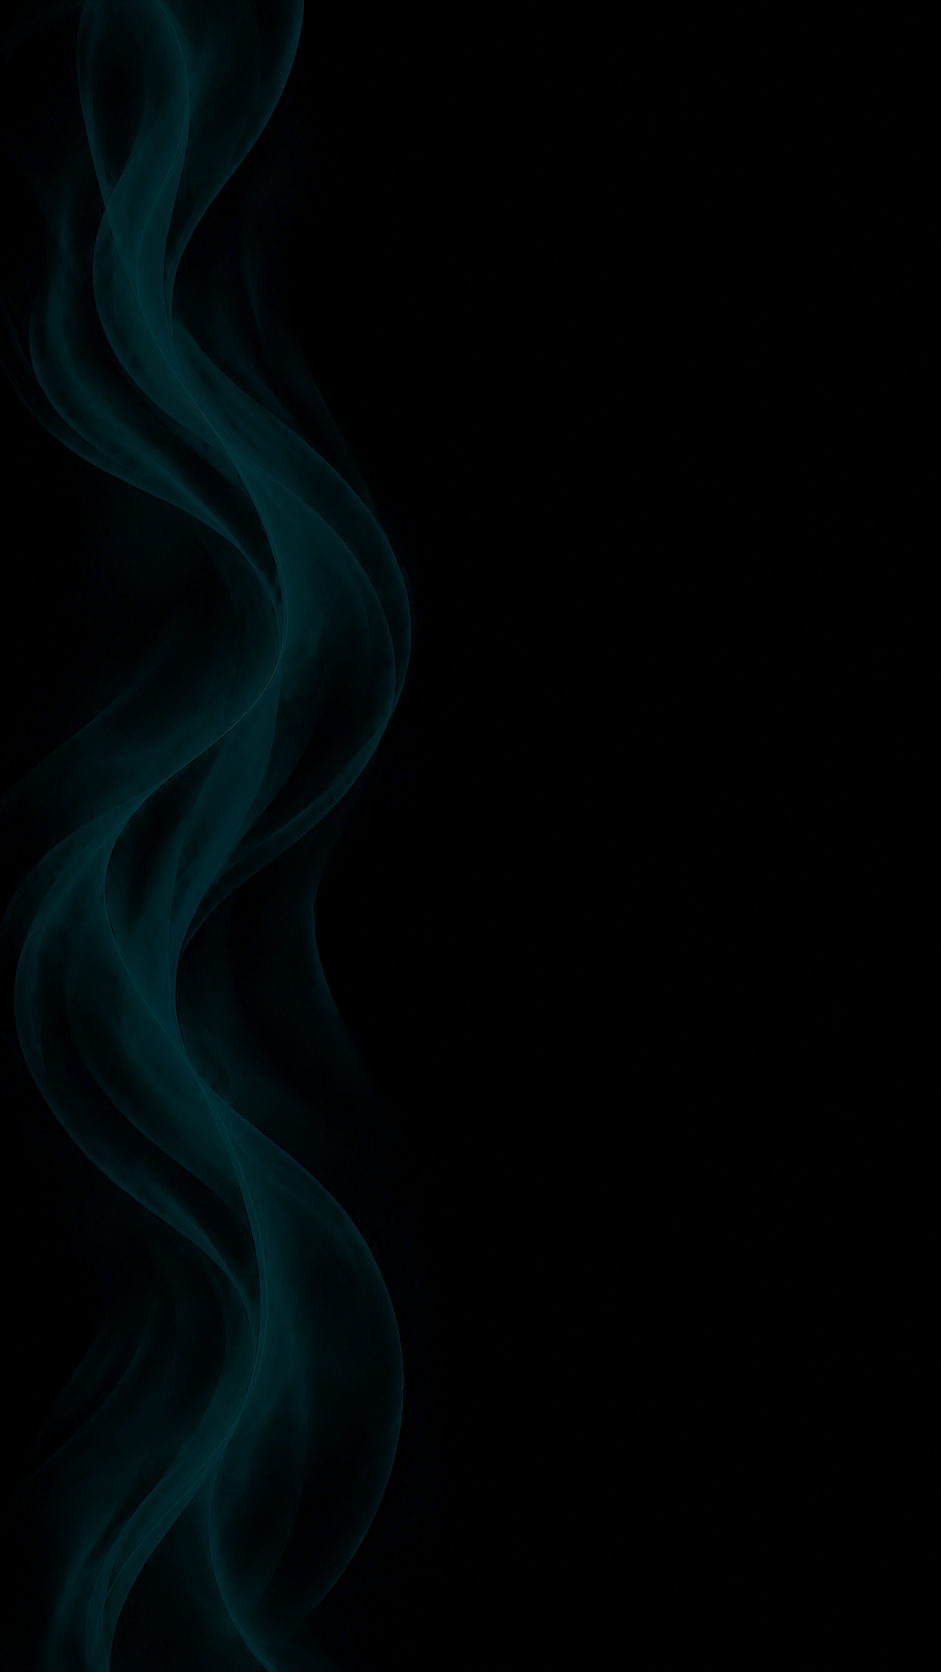
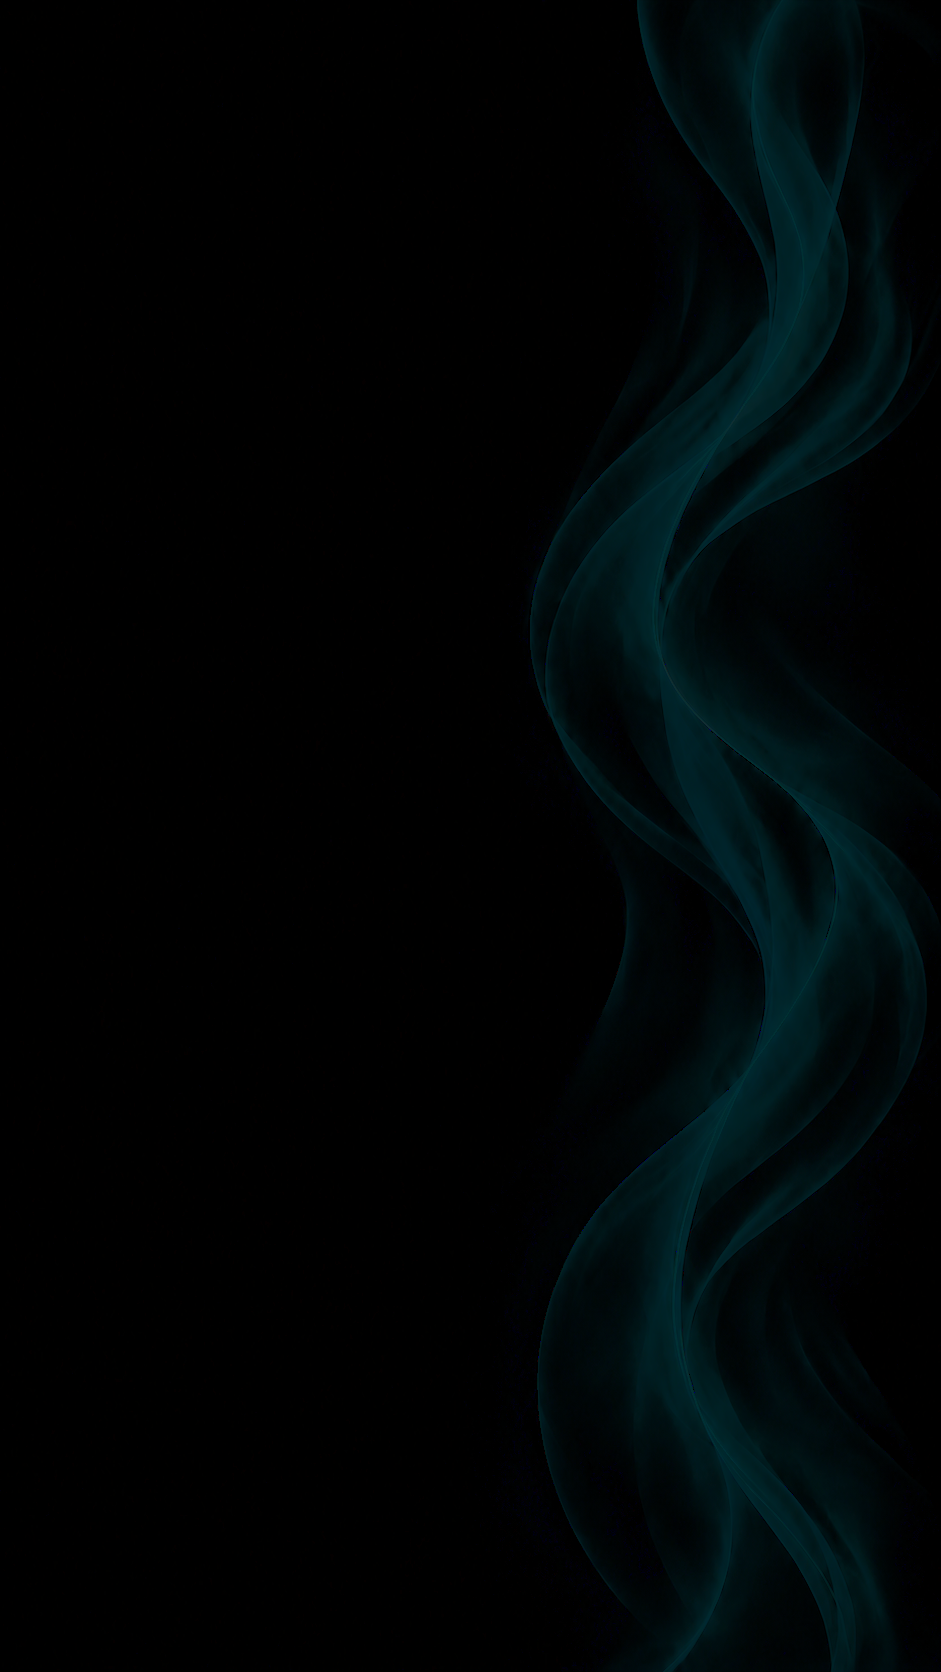
feat(38.5-07): mirror the Aurora art per owner ruling
- galaxy-aurora-dark/light.webp flipped left-right on the decoded pixels (no
  regeneration); lossless WebP method 6, 941x1672 RGB, single VP8L chunk
- each new file decodes to exactly np.fliplr of the previous file
- H1/H2 (--margin 0.1) PASS on both, 0 failing px; extrema --check passes
- ART-SIGNOFF byte table + section 4 addendum (ruling verbatim), README
  provenance, dossier [DECIDED 2026-09-29] D-35, CONTEXT D-35

diff --git a/.planning/phases/38.5-background-art-text-contrast/38.5-ART-SIGNOFF.md b/.planning/phases/38.5-background-art-text-contrast/38.5-ART-SIGNOFF.md
@@ -96,7 +96,8 @@ rule bumps only on a wire-shape change (`src/backup/types.ts`). No backup-area p
 
 Each master was opened and asserted 941×1672, mode RGB, no alpha; rebuilt from its pixel array (metadata and text chunks
 dropped); saved as a lossless WebP (`lossless=True, method=6`); then both files were re-opened and the decoded pixel
-arrays compared. **All 12 are pixel-identical to their approved masters.**
+arrays compared. **All 12 are pixel-identical to their approved masters.** (The two `galaxy-aurora` files were later
+mirrored left↔right by owner ruling; they are now pixel-identical to `np.fliplr` of their masters. See §4.)
 
 Checker: `uv run --no-project --with numpy --with pillow python3 scripts/check-background-art.py <webp> --package <pkg>
 --mode <mode> --slot <slot> --accepted-exclusions .planning/phases/38.5-background-art-text-contrast/38.5-ART-SIGNOFF.md
@@ -108,8 +109,8 @@ allowance). Nothing else is relaxed. Presentation veil, whole canvas.
 |---|---|---|---|---|---|---|---|---|---|---|
 | galaxy-quiet | dark | DeepSpace-D1 (`galaxy-quiet-dark-base-strict-r1`) | base | strict | PASS | PASS | 0.000% / 0.000% | 0 / 0 px | 0.0 / 0.6 / 14.4 | 1,107,828 |
 | galaxy-quiet | light | DeepSpace-L1 (`galaxy-quiet-light-route1-strict-r2`) | route 1 | strict | PASS | PASS | 0.000% / 0.000% | 0 / 0 px | 89.5 / 96.0 / 97.0 | 831,608 |
-| galaxy-aurora | dark | Aurora-D7 (`galaxy-aurora-dark-base-strict-r4e`) | base | strict | PASS | PASS | 0.000% / 0.000% | 0 / 0 px | 0.0 / 0.0 / 17.3 | 515,304 |
-| galaxy-aurora | light | Aurora-L1 (`galaxy-aurora-light-route1-strict-r2`) | route 1 | strict | PASS | PASS | 0.000% / 0.000% | 0 / 0 px | 89.3 / 96.8 / 97.1 | 625,956 |
+| galaxy-aurora | dark | Aurora-D7 (`galaxy-aurora-dark-base-strict-r4e`) | base | strict | PASS | PASS | 0.000% / 0.000% | 0 / 0 px | 0.0 / 0.0 / 17.3 | 516,028 (mirrored §4; was 515,304) |
+| galaxy-aurora | light | Aurora-L1 (`galaxy-aurora-light-route1-strict-r2`) | route 1 | strict | PASS | PASS | 0.000% / 0.000% | 0 / 0 px | 89.3 / 96.8 / 97.1 | 625,150 (mirrored §4; was 625,956) |
 | galaxy-starfield | dark | Starfield-D3 (`galaxy-starfield-dark-base-visible-r3`) | base | visible | PASS (allowance) | PASS (allowance) | 0.170% / 0.170% | 9 / 9 px | 0.0 / 0.6 / 80.2 | 1,502,978 |
 | galaxy-starfield | light | Starfield-L5 (`galaxy-starfield-light-route2-visible-r4d`) | route 2 | visible | PASS (allowance) | PASS (allowance) | 0.028% / 0.028% | 13 / 13 px | 17.8 / 93.0 / 100.0 | 1,351,862 |
 | standard-dawn | dark | Dawn-D1 (`standard-dawn-dark-route1-strict-r2`) | route 1 | strict | PASS | PASS | 0.000% / 0.000% | 0 / 0 px | 6.9 / 11.3 / 18.4 | 1,202,964 |
@@ -135,11 +136,41 @@ Starfield variants:
 | Set | Files | Total bytes |
 |---|---|---|
 | Before: today's shipped WebPs (`galaxy-aurora`, `galaxy-deep-space`, `galaxy-nebula`, `galaxy-starfield`, `standard-dawn`, `standard-dusk`, `standard-mesh`, `standard-paper`) | 8 | 7,354,082 (7.35 MB) |
-| After: the 12 new `*-light.webp` / `*-dark.webp` | 12 | 11,976,442 (11.98 MB) |
-| Change once 38.5-05 retires the 8 old files | +4 files | +4,622,360 (+62.9%) |
+| After: the 12 new `*-light.webp` / `*-dark.webp` (Aurora mirrored, §4) | 12 | 11,976,360 (11.98 MB) |
+| Change once 38.5-05 retires the 8 old files | +4 files | +4,622,278 (+62.9%) |
 
 Until 38.5-05 removes the 8 old files, the repo carries both sets (19,330,524 bytes); only the wired files enter the
 bundle, since Metro bundles only `require()`d assets.
+
+## 4. Addendum (2026-09-29) — Aurora mirrored left↔right
+
+**Owner ruling, verbatim (2026-09-29, during the 38.5-07 re-sign-off):** "I need the image mirrored. I was feeling weird
+about the ribbon in the image being only on one side but couldn't put my finger on why and now it's obvious: most of the
+app's visual content is on the left of the screen, same side as the ribbon, while the right side is relatively
+content-free. Meaning the ribbon sits behind the contact names and pictures on the list view of contacts and the digest
+pages. If we mirror the image so the ribbon is exactly the same but on the right side and inverted, I think that would
+look "stellar" so to speak :P ... I'm not saying to regenerate the image, literally just mechanically flip the image. Both
+light and dark would need this treatment."
+
+What was done (no regeneration, nothing else altered):
+
+- `assets/backgrounds/galaxy-aurora-dark.webp` (Aurora-D7) and `assets/backgrounds/galaxy-aurora-light.webp` (Aurora-L1)
+  were decoded, flipped horizontally on the pixel array (`np.fliplr`), and re-saved exactly as in §2: 941×1672, RGB, no
+  alpha, lossless WebP (`lossless=True, method=6`), a single `VP8L` chunk (no metadata or text chunks).
+- Each new file's decoded pixels were verified **equal to `np.fliplr` of the previous file's decoded pixels, exactly**
+  (and therefore to `np.fliplr` of the approved master).
+- A mirror leaves the pixel set unchanged, so every measurement is unchanged: H1 and H2 (`--margin 0.1`) PASS on both files
+  (dark with `--exclude-galaxy-dark-danger`), union failing 0 px, and `measure-background-extrema.py --check` passes
+  with the declared extrema untouched.
+
+| File | Bytes before | Bytes after | SHA-256 after |
+|---|---|---|---|
[2 lines of base64/hex data omitted]
+
+The 12-file total moves from 11,976,442 to 11,976,360 bytes (§3 updated). The "both sets" figure in §3 (19,330,524
+bytes) describes the repo before 38.5-05 retired the old files and is left as recorded. Mirrored as the dossier "Art
+Sign-off" entry `[DECIDED · 2026-09-29]` D-35 and as D-35 in `38.5-CONTEXT.md`.
 
 ## Accepted exclusions (machine-readable)
 

diff --git a/assets/backgrounds/README.md b/assets/backgrounds/README.md
@@ -57,12 +57,17 @@ All twelve files are the owner-picked candidates from the 38.5 art loop, saved f
 their approved PNG masters as lossless WebPs (`lossless=True, method=6`), decoded and
 verified pixel-identical to the master, with metadata and text chunks dropped.
 
+**Exception — the two `galaxy-aurora` files are mirrored (owner ruling 2026-09-29, 38.5 D-35).** They were
+flipped left↔right on the decoded pixels (no regeneration), so the ribbon sits on the right, away from the
+left-aligned list and Digest content, and re-saved the same way; each is pixel-identical to `np.fliplr` of its
+master. A mirror leaves the pixel set unchanged, so the declared extrema and every checker result stand.
+
 | Slot id | Package | Mode | File | Dimensions | Measured brightest pixel | Measured darkest pixel | Feature allowance | Source | License | Author |
 |---------|---------|------|------|------------|--------------------------|------------------------|-------------------|--------|---------|--------|
 | `galaxy-quiet` | galaxy | light | `galaxy-quiet-light.webp` | `941x1672` | `#F8F6FF` | `#E4DDF9` | none | Codex `gpt-6-astra` via `codex-edu`; 38.5 art sign-off 2026-09-28, DeepSpace-L1 (`galaxy-quiet-light-route1-strict-r2`); Pillow lossless WebP | OpenAI Terms of Use | OpenAI image generation (Codex); orbit-app |
 | `galaxy-quiet` | galaxy | dark | `galaxy-quiet-dark.webp` | `941x1672` | `#262149` | `#000000` | none | Codex `gpt-6-astra` via `codex-edu`; 38.5 art sign-off 2026-09-28, DeepSpace-D1 (`galaxy-quiet-dark-base-strict-r1`); Pillow lossless WebP | OpenAI Terms of Use | OpenAI image generation (Codex); orbit-app |
-| `galaxy-aurora` | galaxy | light | `galaxy-aurora-light.webp` | `941x1672` | `#F6F8F9` | `#CEE5E4` | none | Codex `gpt-6-astra` via `codex-edu`; 38.5 art sign-off 2026-09-28, Aurora-L1 (`galaxy-aurora-light-route1-strict-r2`); Pillow lossless WebP | OpenAI Terms of Use | OpenAI image generation (Codex); orbit-app |
-| `galaxy-aurora` | galaxy | dark | `galaxy-aurora-dark.webp` | `941x1672` | `#123035` | `#000000` | none | Codex `gpt-6-astra` via `codex-edu`; 38.5 art sign-off 2026-09-28, Aurora-D7 (`galaxy-aurora-dark-base-strict-r4e`); Pillow lossless WebP | OpenAI Terms of Use | OpenAI image generation (Codex); orbit-app |
+| `galaxy-aurora` | galaxy | light | `galaxy-aurora-light.webp` | `941x1672` | `#F6F8F9` | `#CEE5E4` | none | Codex `gpt-6-astra` via `codex-edu`; 38.5 art sign-off 2026-09-28, Aurora-L1 (`galaxy-aurora-light-route1-strict-r2`), mirrored left↔right 2026-09-29 (D-35); Pillow lossless WebP | OpenAI Terms of Use | OpenAI image generation (Codex); orbit-app |
+| `galaxy-aurora` | galaxy | dark | `galaxy-aurora-dark.webp` | `941x1672` | `#123035` | `#000000` | none | Codex `gpt-6-astra` via `codex-edu`; 38.5 art sign-off 2026-09-28, Aurora-D7 (`galaxy-aurora-dark-base-strict-r4e`), mirrored left↔right 2026-09-29 (D-35); Pillow lossless WebP | OpenAI Terms of Use | OpenAI image generation (Codex); orbit-app |
 | `galaxy-starfield` | galaxy | light | `galaxy-starfield-light.webp` | `941x1672` | `#FFFFFF` | `#D3DDE0` (text-bearing) | 18 px / 0.5% (signed 2026-09-28) | Codex `gpt-6-astra` via `codex-edu`; 38.5 art sign-off 2026-09-28, Starfield-L5 (`galaxy-starfield-light-route2-visible-r4d`); Pillow lossless WebP | OpenAI Terms of Use | OpenAI image generation (Codex); orbit-app |
 | `galaxy-starfield` | galaxy | dark | `galaxy-starfield-dark.webp` | `941x1672` | `#262452` (text-bearing) | `#000000` | 18 px / 0.5% (signed 2026-09-28) | Codex `gpt-6-astra` via `codex-edu`; 38.5 art sign-off 2026-09-28, Starfield-D3 (`galaxy-starfield-dark-base-visible-r3`); Pillow lossless WebP | OpenAI Terms of Use | OpenAI image generation (Codex); orbit-app |
 | `standard-dawn` | standard | light | `standard-dawn-light.webp` | `941x1672` | `#FFF6E8` | `#F8D8C0` | none | Codex `gpt-6-astra` via `codex-edu`; 38.5 art sign-off 2026-09-28, Dawn-L1 (`standard-dawn-light-base-strict-r0`); Pillow lossless WebP | OpenAI Terms of Use | OpenAI image generation (Codex); orbit-app |

diff --git a/docs/dossier/milestone-2/phase-38.5-background-art-text-contrast-dossier.md b/docs/dossier/milestone-2/phase-38.5-background-art-text-contrast-dossier.md
@@ -415,6 +415,18 @@ per-cell checker results on the shipped files, the P-7 sizes and the machine-rea
     Starfield keep their names in both modes.
 -   **[DECIDED · 2026-09-28] D-34 --- No backup-format bump.** The owner agreed with the recommendation: the slot id stays
     in the same keys and nothing on the wire changes.
+-   **[DECIDED · 2026-09-29] D-35 --- The Aurora art is mirrored left↔right, both modes (amends D-30).** Owner, verbatim:
+    "I need the image mirrored. I was feeling weird about the ribbon in the image being only on one side but couldn't
+    put my finger on why and now it's obvious: most of the app's visual content is on the left of the screen, same side
+    as the ribbon, while the right side is relatively content-free. Meaning the ribbon sits behind the contact names and
+    pictures on the list view of contacts and the digest pages. If we mirror the image so the ribbon is exactly the same
+    but on the right side and inverted, I think that would look "stellar" so to speak :P ... I'm not saying to
+    regenerate the image, literally just mechanically flip the image. Both light and dark would need this treatment."
+    -   `galaxy-aurora-dark.webp` (Aurora-D7) and `galaxy-aurora-light.webp` (Aurora-L1) are flipped horizontally on the
+        decoded pixels, not regenerated, and re-saved as lossless WebPs the same way as D-30. Each is pixel-identical to
+        `np.fliplr` of the previous file.
+    -   [DERIVED] A mirror leaves the pixel set unchanged: H1 and H2 still PASS with no failing pixel, and the declared
+        extrema still enclose every regime (`measure-background-extrema.py --check`). Record: `38.5-ART-SIGNOFF.md` §4.
 
 ## Primary Input: the 38.4 Background-Art Brief
 
@@ -671,3 +683,6 @@ O-5 is resolved by D-08, and O-9 is new. O-3, O-6 and O-8 are unchanged (O-8 has
     (Galaxy Dark Aurora is a new image), D-31 the Starfield allowance (18 px / 0.5%) and no exclusions, D-32 the planet
     limb shelved, D-33 the "Deep Space" label for `galaxy-quiet`, D-34 no backup-format bump. O-2 is resolved. The record
     is `38.5-ART-SIGNOFF.md`.
+-   2026-09-29 --- D-35 recorded in the "Art Sign-off" section: the owner had both Aurora images mirrored left↔right
+    (mechanical flip, no regeneration) so the ribbon sits away from the left-aligned content. Record:
+    `38.5-ART-SIGNOFF.md` §4.

diff --git a/.planning/phases/38.5-background-art-text-contrast/38.5-CONTEXT.md b/.planning/phases/38.5-background-art-text-contrast/38.5-CONTEXT.md
@@ -254,6 +254,15 @@ Full record, owner words verbatim, checker results on the shipped files and the 
 - **D-33 (owner):** the quiet Galaxy slot's **label is "Deep Space"**; its id stays `galaxy-quiet` (the old
   `galaxy-deep-space` id is still retired by 38.5-05). Aurora and Starfield keep their names in both modes.
 - **D-34 (owner):** **no backup-format bump** (agrees with the recommendation).
+- **D-35 (owner, 2026-09-29; amends D-30):** **both Aurora images are mirrored left↔right** — a mechanical flip of the
+  decoded pixels, not a regeneration — so the ribbon sits on the right, away from the left-aligned contact names,
+  pictures and Digest content. Owner: "I need the image mirrored. I was feeling weird about the ribbon in the image being
+  only on one side but couldn't put my finger on why and now it's obvious: most of the app's visual content is on the
+  left of the screen, same side as the ribbon, while the right side is relatively content-free. Meaning the ribbon sits
+  behind the contact names and pictures on the list view of contacts and the digest pages. If we mirror the image so the
+  ribbon is exactly the same but on the right side and inverted, I think that would look "stellar" so to speak :P ...
+  I'm not saying to regenerate the image, literally just mechanically flip the image. Both light and dark would need this
+  treatment." The pixel set is unchanged, so H1/H2 and the declared extrema stand (`38.5-ART-SIGNOFF.md` §4).
 
 **End-of-phase gap list (owner review after the new art; not planned up front):** scrims on red `danger` strings in
 Galaxy Dark (D-25); any proposed change outside the v2-marked set (D-28). Report items to the owner as soon as they are
